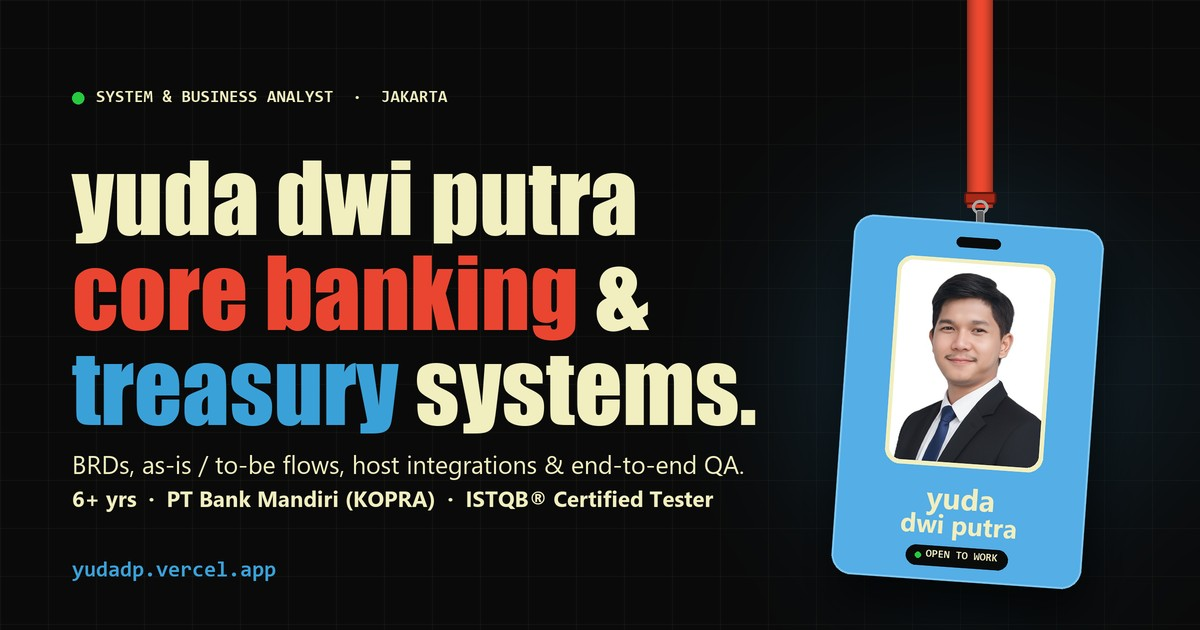
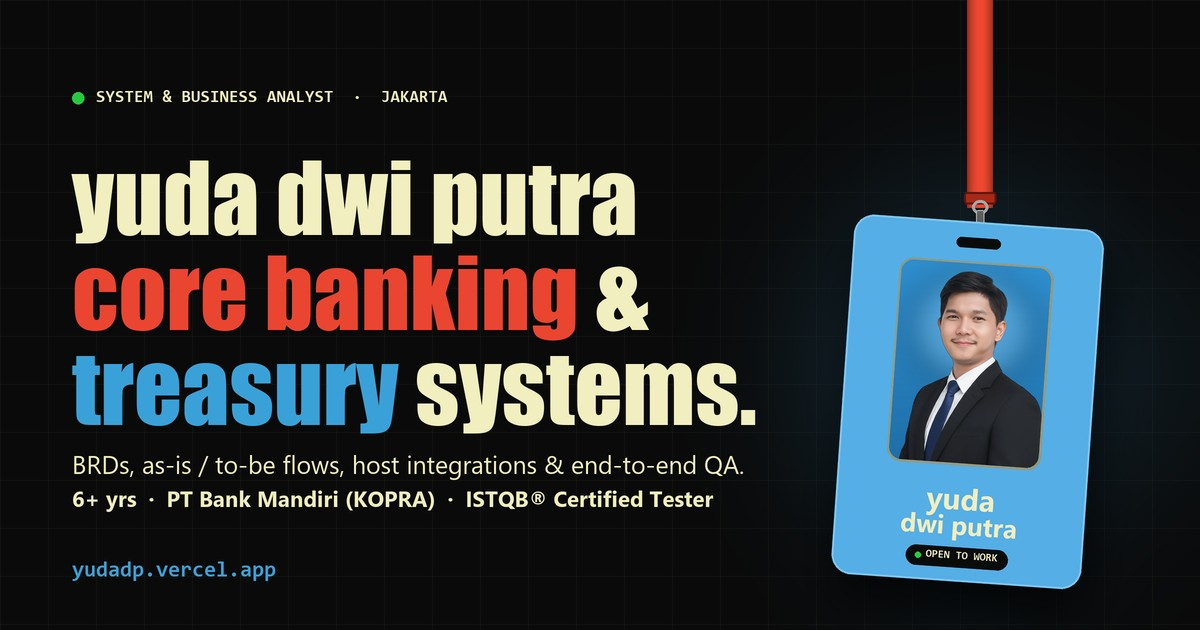
feat: ID card photo without the white background
- New public/yuda-photo-cutout.webp (22 KB, transparent): white studio
  background removed with a border flood-fill (white shirt kept), soft
  de-fringed edges
- ID card photo window is now a blue gradient with a soft glow behind the
  head and a thin cream ring instead of a white frame
- Share image re-rendered with the same treatment

Changed region(s): [[0.74, 0.3921, 0.8942, 0.754]]

diff --git a/src/components/IdCardLanyard.jsx b/src/components/IdCardLanyard.jsx
@@ -416,14 +416,16 @@ export default function IdCardLanyard({ lang = "en", isReady = true }) {
 
             {/* ID photo */}
             <div className="flex-1 min-h-0 flex items-center justify-center pt-1.5 sm:pt-2">
-              <div className="h-full max-h-[100px] sm:max-h-[124px] aspect-[3/4] rounded-[8px] sm:rounded-[10px] overflow-hidden bg-white ring-2 ring-[#f1eec0]/90 shadow-[0_6px_14px_rgba(0,0,0,0.3)]">
+              <div className="relative h-full max-h-[100px] sm:max-h-[124px] aspect-[3/4] rounded-[8px] sm:rounded-[10px] overflow-hidden bg-gradient-to-b from-[#2f8fcf] to-[#1f6fa8] ring-1 ring-[#f1eec0]/55 shadow-[inset_0_0_0_1px_rgba(0,0,0,0.08),0_6px_14px_rgba(0,0,0,0.25)]">
+                {/* soft light behind the head */}
+                <span className="absolute left-1/2 top-[18%] -translate-x-1/2 w-[85%] aspect-square rounded-full bg-[#9fd6f7]/35 blur-[10px]" />
                 <img
-                  src="/yuda-photo-id.jpg"
+                  src="/yuda-photo-cutout.webp"
                   alt="Yuda Dwi Putra"
                   draggable="false"
                   width="480"
                   height="640"
-                  className="w-full h-full object-cover pointer-events-none select-none"
+                  className="relative w-full h-full object-cover object-bottom pointer-events-none select-none drop-shadow-[0_2px_4px_rgba(0,0,0,0.25)]"
                 />
               </div>
             </div>
